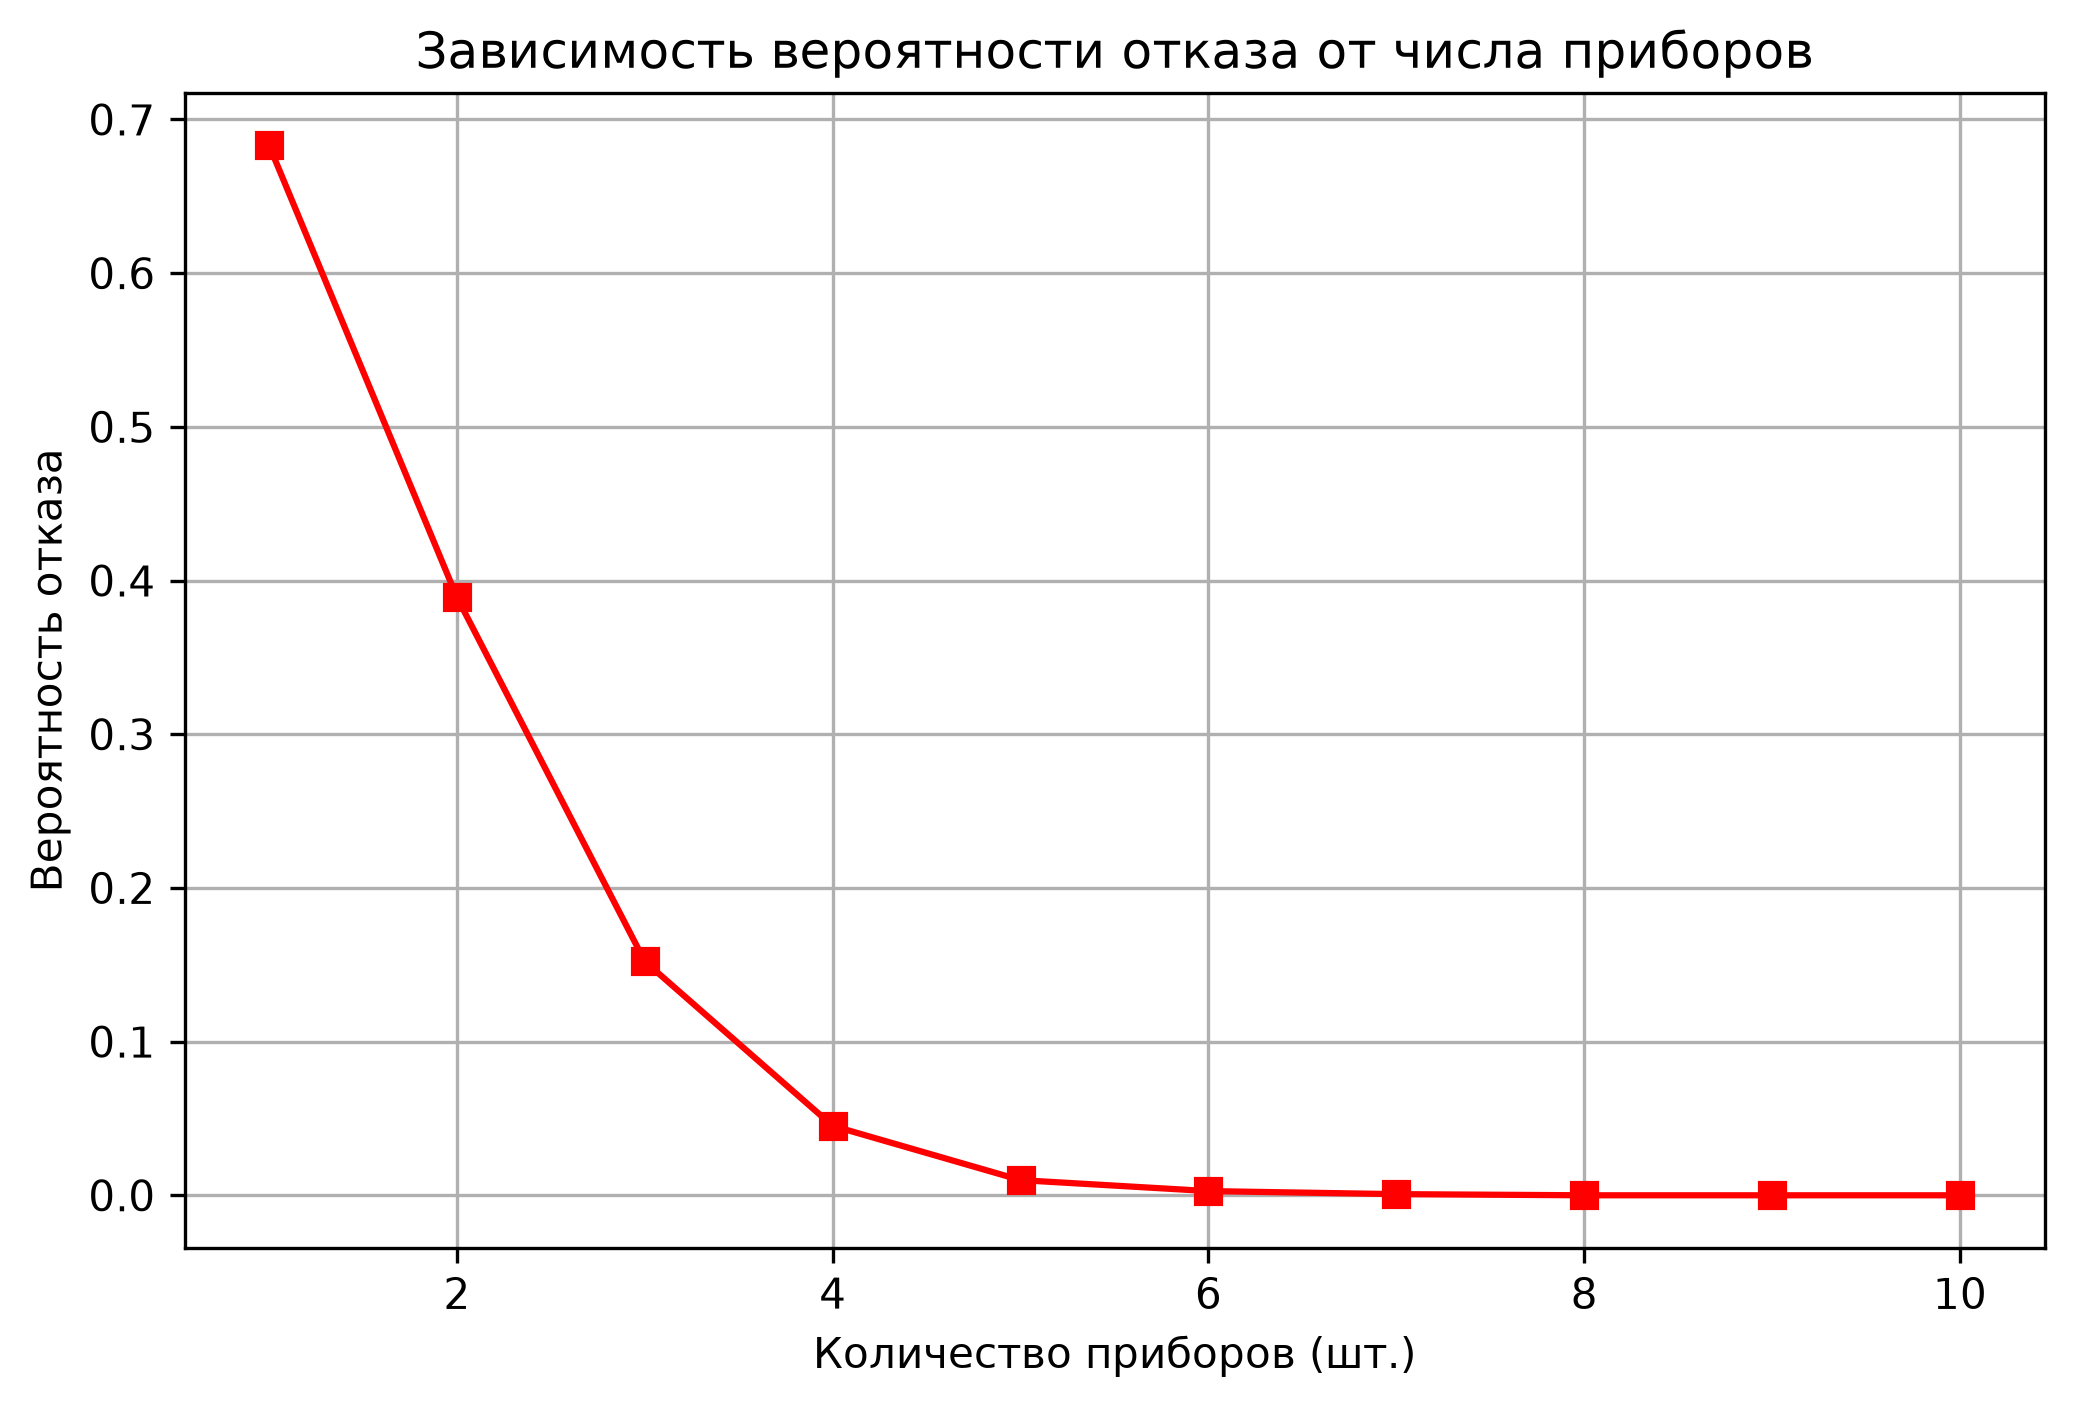
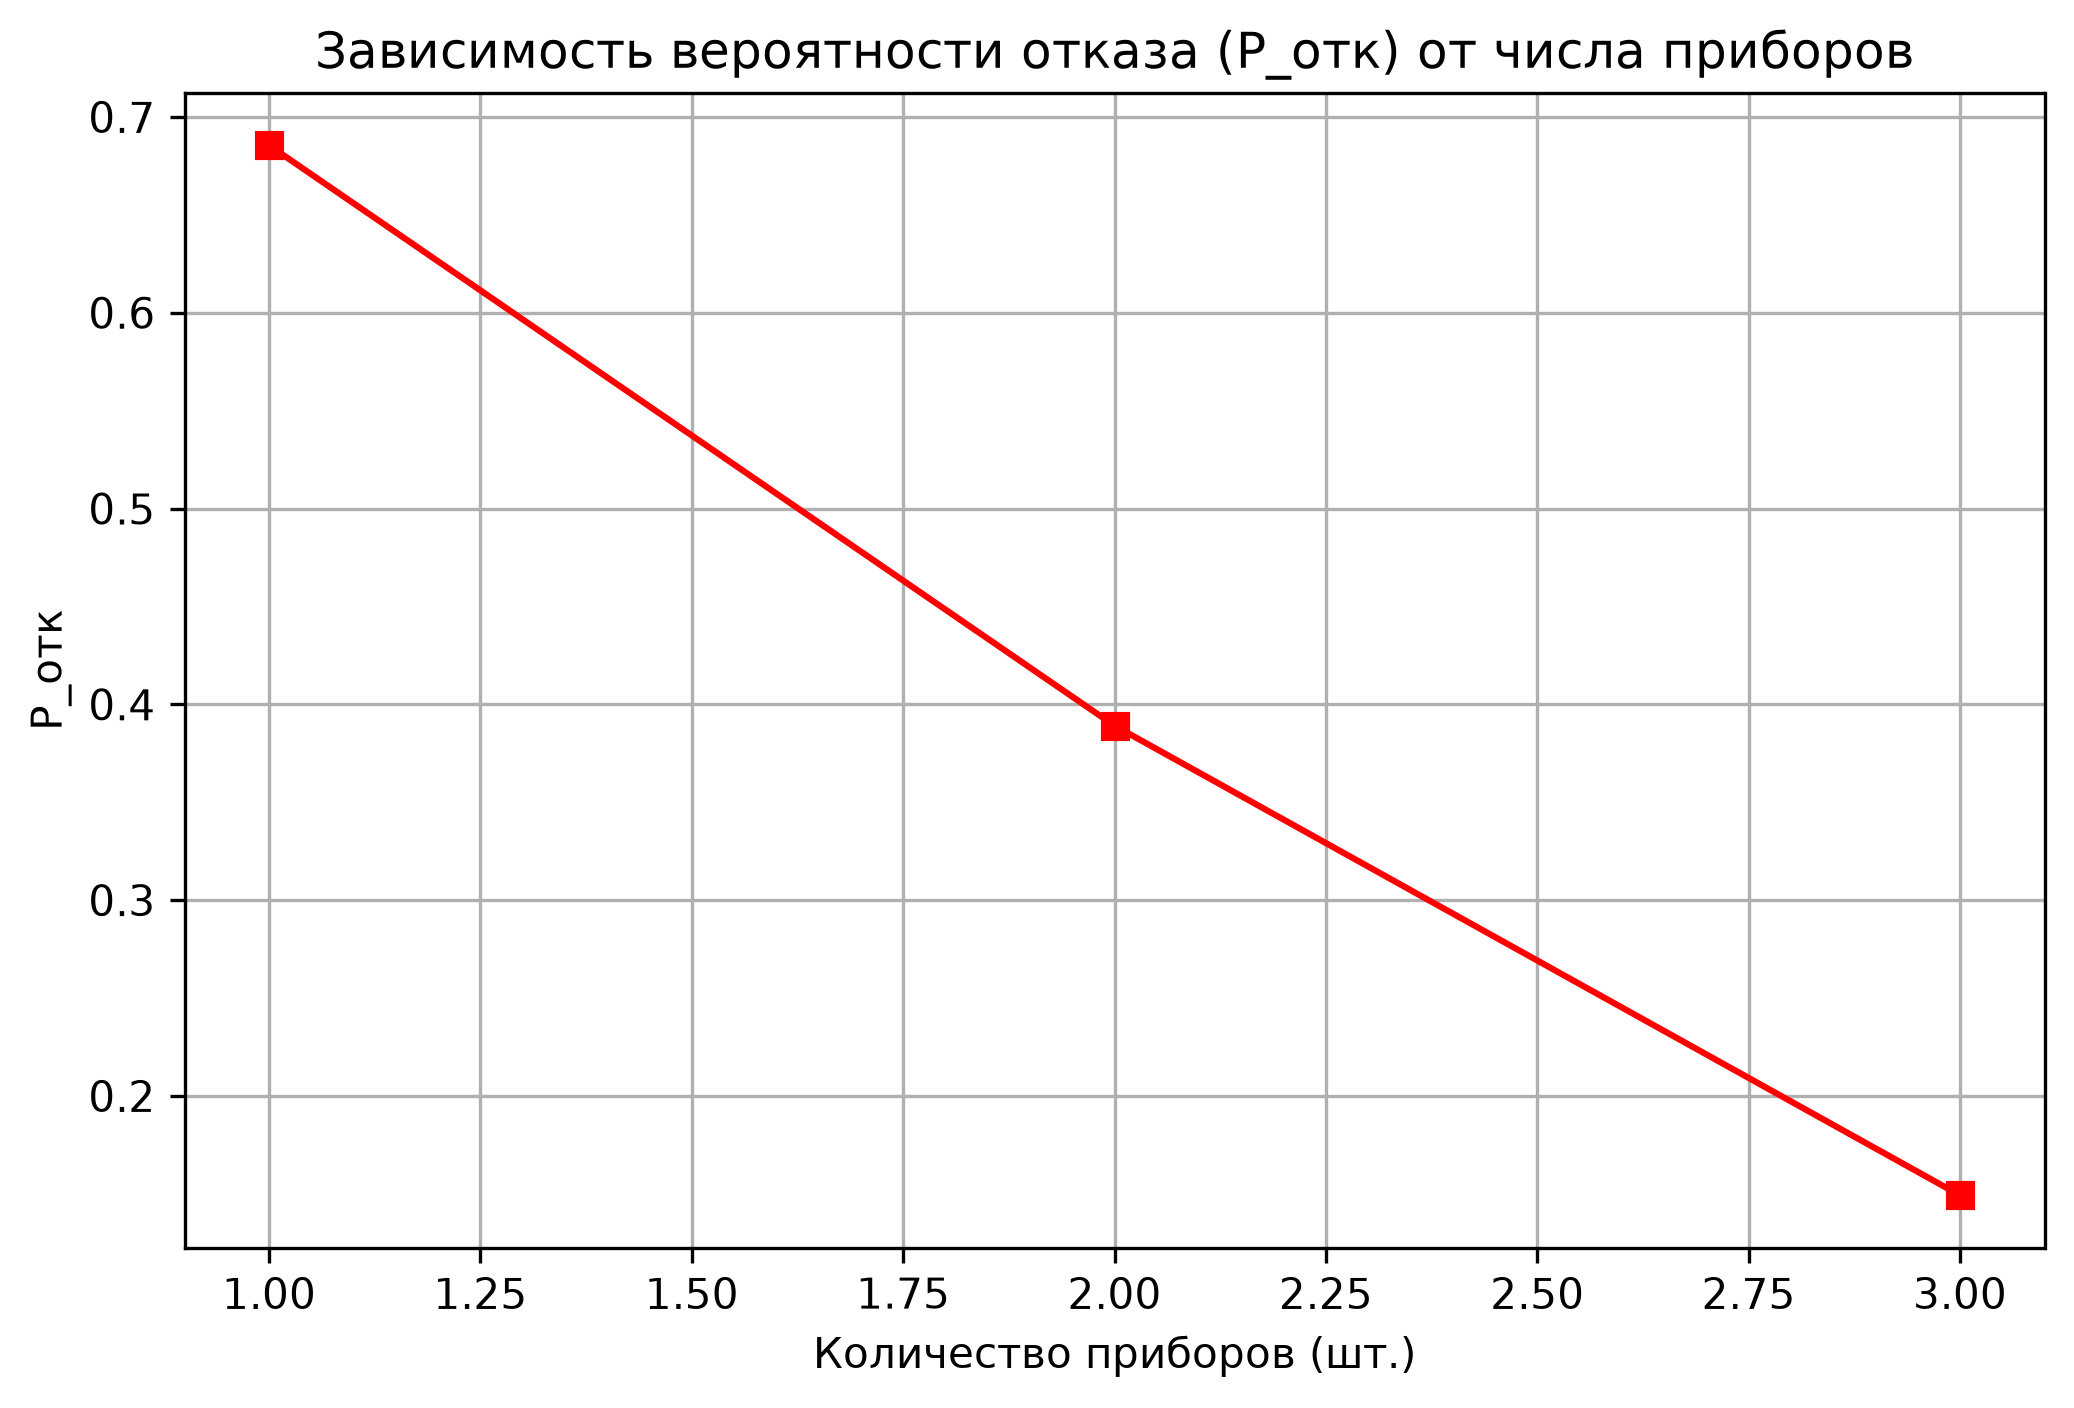
Add output tables

diff --git a/src/mode/auto.py b/src/mode/auto.py
@@ -3,17 +3,45 @@ import os
 import matplotlib.pyplot as plt
 
 sys.path.append(os.path.dirname(os.path.dirname(os.path.abspath(__file__))))
-
 from mode.model import Model
 
+def print_statistics_tables(model):
+    print("\n" + "="*110)
+    print("ТАБЛИЦА 1: ХАРАКТЕРИСТИКИ ИСТОЧНИКОВ ВС")
+    print("="*110)
+    print(f"{'№ Ист.':<8} | {'Кол-во заявок':<14} | {'P_отк':<8} | {'T_преб':<8} | {'T_БП':<8} | {'T_обсл':<8} | {'Д_БП':<8} | {'Д_обсл':<8}")
+    print("-" * 110)
+    for s in model.sources:
+        n = s.get_generated_count()
+        p_otk = s.get_prob_reject()
+        t_preb = s.get_avg_time_in_system()
+        t_bp = s.get_avg_waiting_time()
+        t_obsl = s.get_avg_service_time()
+        d_bp = s.get_var_waiting_time()
+        d_obsl = s.get_var_service_time()
+        
+        print(f"И{s.id:<7} | {n:<14} | {p_otk:<8.3f} | {t_preb:<8.3f} | {t_bp:<8.3f} | {t_obsl:<8.3f} | {d_bp:<8.3f} | {d_obsl:<8.3f}")
+
+    print("\n" + "="*80)
+    print("ТАБЛИЦА 2: ХАРАКТЕРИСТИКИ ПРИБОРОВ (ПЗ1)")
+    print("="*80)
+    print(f"{'Прибор':<8} | {'Обработано':<12} | {'K_исп':<8} | {'Сум. время занятости':<20}")
+    print("-" * 80)
+    for h in model.handlers:
+        processed = h.get_processed_count()
+        k_util = h.get_busy_time() / model.current_time if model.current_time > 0 else 0.0
+        print(f"П{h.id:<7} | {processed:<12} | {k_util:<8.3f} | {h.get_busy_time():<20.3f}")
+    print("="*80 + "\n")
+
 def run_simulation(num_handlers, buffer_capacity=5, num_steps=2000, num_runs=20):
-    
     sum_time = 0
     sum_reject_prob = 0
     sum_utilization = 0
 
     lambda_val = 0.8 
     mu_val = 0.5      
+
+    last_model = None
 
     for _ in range(num_runs):
         model = Model(
@@ -26,6 +54,8 @@ def run_simulation(num_handlers, buffer_capacity=5, num_steps=2000, num_runs=20)
         for _ in range(num_steps):
             if not model.step():
                 break
+        
+        last_model = model
         
         if model.total_processed > 0:
             sum_time += model.total_time_in_system / model.total_processed
@@ -45,13 +75,33 @@ def run_simulation(num_handlers, buffer_capacity=5, num_steps=2000, num_runs=20)
         if model.current_time > 0:
             sum_utilization += total_busy / (num_handlers * model.current_time)
 
-    return (sum_time / num_runs, 
+    if last_model:
+        total_gen = sum(s.get_generated_count() for s in last_model.sources)
+        total_rej = sum(s.get_rejected_count() for s in last_model.sources)
+        total_proc = last_model.total_processed
+        global_p_rej = total_rej / total_gen if total_gen > 0 else 0.0
+        
+        sum_lambda = sum(s.lambda_val for s in last_model.sources)
+        sum_mu = sum(h.mu_val for h in last_model.handlers)
+        rho = sum_lambda / sum_mu if sum_mu > 0 else 0.0
+        
+        print("\n" + "="*80)
+        print("МОДЕЛИРОВАНИЕ ЗАВЕРШЕНО")
+        print(f"Время моделирования: {last_model.current_time:.3f} | Шагов: {num_steps}")
+        print(f"Заявок: создано {total_gen}; обслужено {total_proc}; отказано {total_rej}; P_отк = {global_p_rej*100:.2f}%")
+        print(f"Оценка входной нагрузки rho = Lambda/Mu = {rho:.3f}")
+        print("Дисперсии выборочные (деление на n-1), при n<2 отображается 0.")
+        print("="*80 + "\n")
+        
+        print_statistics_tables(last_model)
+
+        return (sum_time / num_runs, 
             sum_reject_prob / num_runs, 
             sum_utilization / num_runs)
 
 
 if __name__ == "__main__":
-    print("=== АВТОМАТИЧЕСКИЙ РЕЖИМ (ОР2) ===")
+    print("АВТОМАТИЧЕСКИЙ РЕЖИМ")
     
     while True:
         try:
@@ -66,6 +116,7 @@ if __name__ == "__main__":
                 continue
                 
             break 
+            
         except ValueError:
             print("Ошибка: пожалуйста, вводите целые числа.")
 
@@ -91,27 +142,27 @@ if __name__ == "__main__":
 
     plt.figure(figsize=(8, 5))
     plt.plot(handlers_range, times, marker='o', color='b', linestyle='-')
-    plt.title('Зависимость среднего времени пребывания в системе от числа приборов')
+    plt.title('Зависимость среднего времени пребывания (T_сист) от числа приборов')
     plt.xlabel('Количество приборов (шт.)')
-    plt.ylabel('Среднее время в системе')
+    plt.ylabel('T_сист (среднее)')
     plt.grid(True)
     plt.savefig(f"{output_dir}/graph_time.png", dpi=300, bbox_inches='tight')
     plt.show()
 
     plt.figure(figsize=(8, 5))
     plt.plot(handlers_range, rejects, marker='s', color='r', linestyle='-')
-    plt.title('Зависимость вероятности отказа от числа приборов')
+    plt.title('Зависимость вероятности отказа (P_отк) от числа приборов')
     plt.xlabel('Количество приборов (шт.)')
-    plt.ylabel('Вероятность отказа')
+    plt.ylabel('P_отк')
     plt.grid(True)
     plt.savefig(f"{output_dir}/graph_reject.png", dpi=300, bbox_inches='tight')
     plt.show()
 
     plt.figure(figsize=(8, 5))
     plt.plot(handlers_range, utils, marker='^', color='g', linestyle='-')
-    plt.title('Зависимость коэффициента использования приборов от их количества')
+    plt.title('Зависимость коэффициента использования (K_исп) от числа приборов')
     plt.xlabel('Количество приборов (шт.)')
-    plt.ylabel('Коэффициент использования')
+    plt.ylabel('K_исп')
     plt.grid(True)
     plt.savefig(f"{output_dir}/graph_utilization.png", dpi=300, bbox_inches='tight')
     plt.show()

diff --git a/src/common/source.py b/src/common/source.py
@@ -8,18 +8,52 @@ class Source:
         self.next_generation_time = 0.0
         self.generated_count = 0
         self.rejected_count = 0
+        
+        self.processed_count = 0
+        self.sum_time_in_system = 0.0
+        self.sum_waiting_time = 0.0
+        self.sum_service_time = 0.0
+        
+        self.sum_sq_waiting_time = 0.0
+        self.sum_sq_service_time = 0.0
 
     def generate_log(self, current_time):
         self.generated_count += 1
         log = LogEntry(log_id=self.generated_count, source_id=self.id, created_at=current_time)
         self.next_generation_time = current_time + random.expovariate(self.lambda_val)
         return log
-    
-    def get_next_time(self):
-        return self.next_generation_time
 
-    def get_generated_count(self):
-        return self.generated_count
+    def add_statistics(self, time_in_system, waiting_time, service_time):
+        self.processed_count += 1
+        self.sum_time_in_system += time_in_system
+        self.sum_waiting_time += waiting_time
+        self.sum_service_time += service_time
+        
+        self.sum_sq_waiting_time += waiting_time ** 2
+        self.sum_sq_service_time += service_time ** 2
 
-    def get_rejected_count(self):
-        return self.rejected_count
+    def get_next_time(self): return self.next_generation_time
+    def get_generated_count(self): return self.generated_count
+    def get_rejected_count(self): return self.rejected_count
+
+    def get_prob_reject(self):
+        return self.rejected_count / self.generated_count if self.generated_count > 0 else 0.0
+
+    def get_avg_time_in_system(self):
+        return self.sum_time_in_system / self.processed_count if self.processed_count > 0 else 0.0
+
+    def get_avg_waiting_time(self):
+        return self.sum_waiting_time / self.processed_count if self.processed_count > 0 else 0.0
+
+    def get_avg_service_time(self):
+        return self.sum_service_time / self.processed_count if self.processed_count > 0 else 0.0
+
+    def get_var_waiting_time(self):
+        if self.processed_count < 2: return 0.0
+        mean = self.get_avg_waiting_time()
+        return (self.sum_sq_waiting_time / (self.processed_count - 1)) - (mean ** 2 * self.processed_count / (self.processed_count - 1))
+
+    def get_var_service_time(self):
+        if self.processed_count < 2: return 0.0
+        mean = self.get_avg_service_time()
+        return (self.sum_sq_service_time / (self.processed_count - 1)) - (mean ** 2 * self.processed_count / (self.processed_count - 1))

diff --git a/src/mode/model.py b/src/mode/model.py
@@ -16,8 +16,10 @@ class Model:
         self.buffer = Buffer(capacity=buffer_capacity)
         self.storage = Storage()
         self.verbose = verbose
+        
         self.sources = [Source(i+1, lambda_val=lam) for i, lam in enumerate(sources_params)]
         self.handlers = [Handler(i+1, mu_val=mu, storage=self.storage) for i, mu in enumerate(handlers_params)]
+        
         self.post_dispatcher = PostDispatcher(self.buffer)
         self.pick_dispatcher = PickDispatcher(self.buffer, self.handlers)
         
@@ -46,8 +48,8 @@ class Model:
         if not next_event:
             return False
             
-        time, event_type, obj = next_event
-        self.current_time = time
+        event_time, event_type, obj = next_event
+        self.current_time = event_time
         
         event_text = ""
         action_text = ""
@@ -67,15 +69,25 @@ class Model:
         elif event_type == 'FIN':
             log = obj.finish_processing()
             event_text = f"Прибор {obj.id} закончил {log} (t={self.current_time:.2f})"
+            
             self.total_processed += 1
-            self.total_waiting_time += log.get_waiting_time()
-            self.total_time_in_system += (log.end_processing_at - log.created_at)
-            action_text = f"Обработка завершена"
+            time_in_system = log.end_processing_at - log.created_at
+            waiting_time = log.get_waiting_time()
+            service_time = log.get_processing_time()
+            
+            self.total_waiting_time += waiting_time
+            self.total_time_in_system += time_in_system
+            
+            source_of_log = self.sources[log.source_id - 1]
+            source_of_log.add_statistics(time_in_system, waiting_time, service_time)
+            
+            action_text = f"Обработка завершена, сохранено в Storage"
             
         while self.buffer.has_logs():
             free_handler = self.pick_dispatcher.find_free_handler()
             if not free_handler:
                 break 
+                
             picked_log = self.pick_dispatcher.pick_log_from_buffer()  
             free_handler.start_processing(picked_log, self.current_time)
             
@@ -88,7 +100,6 @@ class Model:
             self.print_event(event_text, action_text)
             
         return True
-    
 
     def print_event(self, event_text, action_text):
         print("-" * 60)

diff --git a/src/common/handler.py b/src/common/handler.py
@@ -8,8 +8,14 @@ class Handler:
         self.is_busy = False
         self.current_log = None
         self.finish_time = 0.0
+        
         self.processed_count = 0
         self.busy_time = 0.0
+        
+        self.sum_service_time = 0.0
+        self.sum_sq_service_time = 0.0
+        self.sum_waiting_time = 0.0
+        self.sum_sq_waiting_time = 0.0
 
     def is_free(self):
         return not self.is_busy
@@ -27,12 +33,25 @@ class Handler:
         log = self.current_log
         if log:
             log.set_end_processing(self.finish_time)
+            
+            service_time = self.finish_time - log.start_processing_at
+            waiting_time = log.get_waiting_time()
+            
             self.processed_count += 1
-            self.busy_time += (self.finish_time - log.start_processing_at)
+            self.busy_time += service_time
+            
+            # Суммируем для расчета средних и дисперсий
+            self.sum_service_time += service_time
+            self.sum_sq_service_time += service_time ** 2
+            self.sum_waiting_time += waiting_time
+            self.sum_sq_waiting_time += waiting_time ** 2
+            
             self.save_to_storage(log)
+            
         self.is_busy = False
         self.current_log = None
         return log
+
     def save_to_storage(self, log):
         self.storage.save_log(log)
 
@@ -44,6 +63,22 @@ class Handler:
 
     def get_current_log(self):
         return self.current_log
+
+    def get_avg_service_time(self):
+        return self.sum_service_time / self.processed_count if self.processed_count > 0 else 0.0
+
+    def get_variance_service_time(self):
+        if self.processed_count < 2: return 0.0
+        mean = self.get_avg_service_time()
+        return (self.sum_sq_service_time / self.processed_count) - (mean ** 2)
+
+    def get_avg_waiting_time(self):
+        return self.sum_waiting_time / self.processed_count if self.processed_count > 0 else 0.0
+
+    def get_variance_waiting_time(self):
+        if self.processed_count < 2: return 0.0
+        mean = self.get_avg_waiting_time()
+        return (self.sum_sq_waiting_time / self.processed_count) - (mean ** 2)
 
     def get_state_str(self):
         return f"H{self.id}(зан.до {self.finish_time:.2f})" if self.is_busy else f"H{self.id}(своб)"

diff --git a/src/mode/main.py b/src/mode/main.py
@@ -11,7 +11,7 @@ if __name__ == "__main__":
         handlers_params=[0.5, 0.5] 
     )
     
-    print("=== СИМУЛЯЦИЯ СЕРВИСА СБОРА ЛОГОВ (ПОШАГОВЫЙ РЕЖИМ) ===")
+    print("СИМУЛЯЦИЯ СЕРВИСА СБОРА ЛОГОВ")
     print("Нажимайте Enter для перехода к следующему событию (или 'q' для выхода).\n")
     
     step_count = 0
